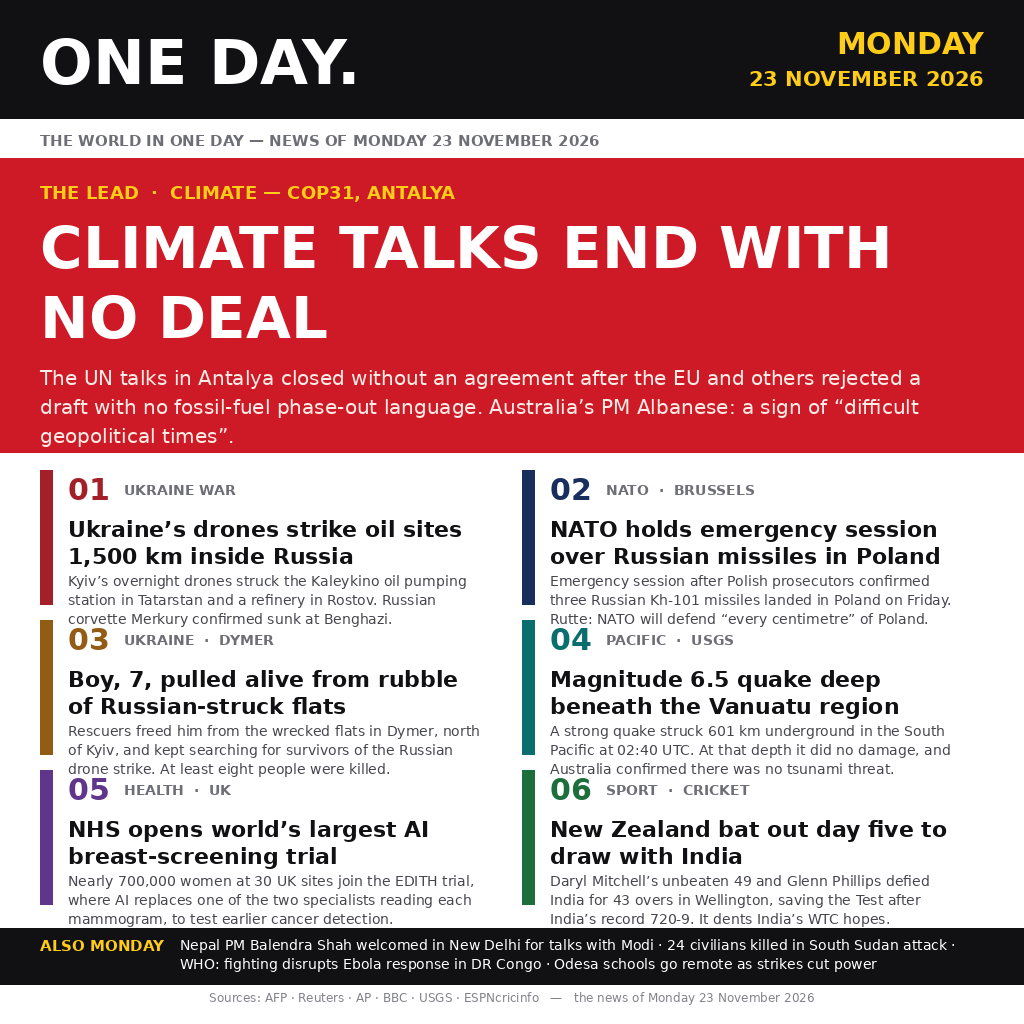
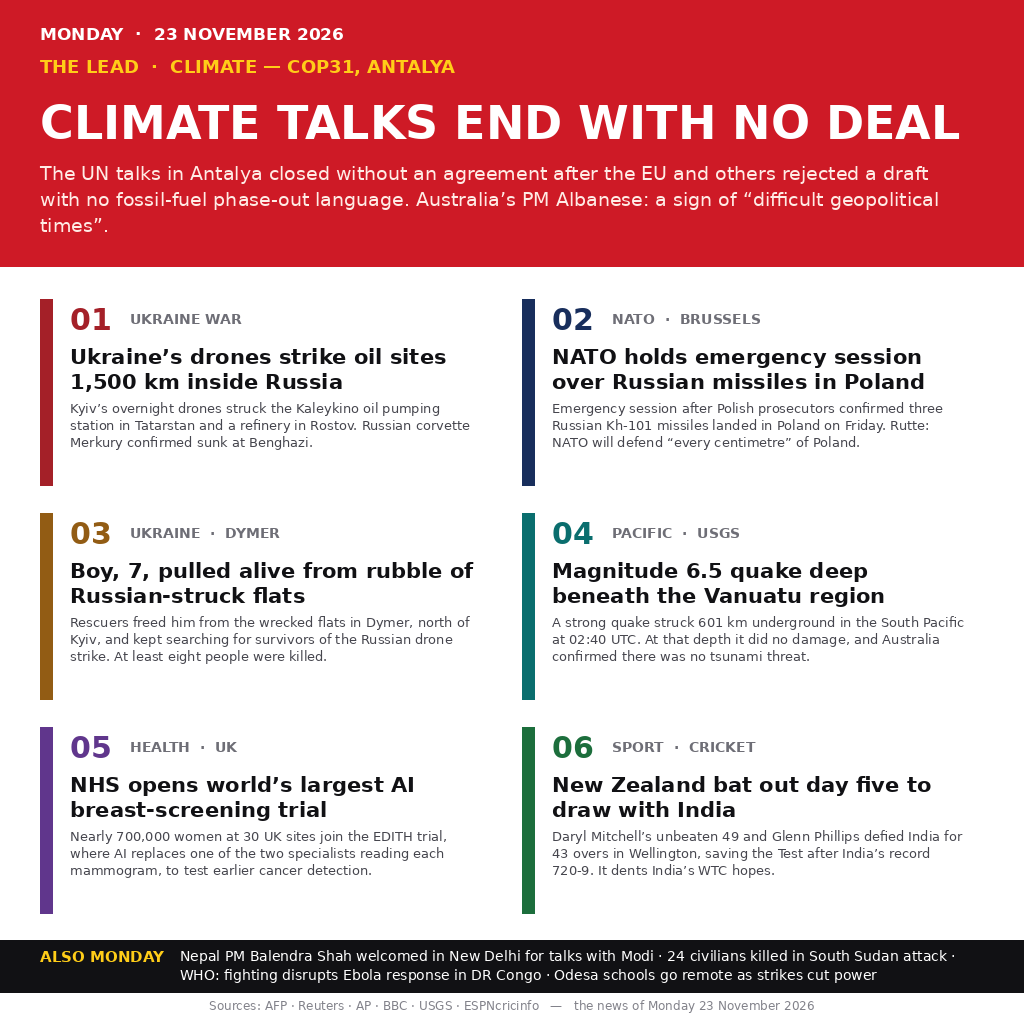
Final design: variant B5 — no masthead, lead block ~28 percent, roomier stories (owner's pick after design review)

diff --git a/make_image.py b/make_image.py
@@ -191,38 +191,49 @@ def render_b():
     img = Image.new("RGB", (W, H), WHITE)
     dr = ImageDraw.Draw(img)
 
-    dr.rectangle([0, 0, W, 118], fill=BLACK)
-    dr.text((40, 26), "ONE DAY.", font=F(SANS_B, 62), fill=WHITE)
-    f_d1, f_d2 = F(SANS_B, 30), F(SANS_B, 21)
-    for txt, fnt, yy in (("MONDAY", f_d1, 26), ("23 NOVEMBER 2026", f_d2, 66)):
-        dr.text((W - 40 - dr.textlength(txt, font=fnt), yy), txt, font=fnt, fill=YELLOW)
-    dr.text((40, 132), "THE WORLD IN ONE DAY — NEWS OF MONDAY 23 NOVEMBER 2026",
-            font=F(SANS_B, 15), fill=(110, 110, 118))
+    # No masthead band: the red lead block starts at the very top of the
+    # page, with the date as a small line inside it above the kicker.
+    # The block is compact (~26% of the page) and hugs its text: its
+    # height is measured from the wrapped headline/body, so there is no
+    # empty red stretch under the lead body.
+    f_date, f_kick = F(SANS_B, 17), F(SANS_B, 18)
+    f_head, f_body = F(SANS_B, 46), F(SANS, 19)
+    head_text = "CLIMATE TALKS END WITH NO DEAL"
+    body_text = ("The UN talks in Antalya closed without an agreement after the EU and "
+                 "others rejected a draft with no fossil-fuel phase-out language. "
+                 "Australia\u2019s PM Albanese: a sign of \u201cdifficult geopolitical times\u201d.")
+    HEAD_LEAD, BODY_LEAD = 54, 26
+    y_date, y_kick, y_head = 24, 56, 96
+    y_body = y_head + len(wrap(dr, head_text, f_head, 944)) * HEAD_LEAD + 12
+    lead_bottom = y_body + len(wrap(dr, body_text, f_body, 930)) * BODY_LEAD + 26
 
-    dr.rectangle([0, 158, W, 452], fill=RED)
-    dr.text((40, 182), "THE LEAD  ·  CLIMATE — COP31, ANTALYA", font=F(SANS_B, 18), fill=YELLOW)
-    y = block(dr, 40, 214, "CLIMATE TALKS END WITH NO DEAL", F(SANS_B, 58), WHITE, 944, 70)
-    block(dr, 40, y + 12,
-          "The UN talks in Antalya closed without an agreement after the EU and "
-          "others rejected a draft with no fossil-fuel phase-out language. "
-          "Australia\u2019s PM Albanese: a sign of \u201cdifficult geopolitical times\u201d.",
-          F(SANS, 20), (255, 236, 230), 930, 29)
+    dr.rectangle([0, 0, W, lead_bottom], fill=RED)
+    dr.text((40, y_date), "MONDAY  ·  23 NOVEMBER 2026", font=f_date, fill=WHITE)
+    dr.text((40, y_kick), "THE LEAD  ·  CLIMATE — COP31, ANTALYA", font=f_kick, fill=YELLOW)
+    block(dr, 40, y_head, head_text, f_head, WHITE, 944, HEAD_LEAD)
+    block(dr, 40, y_body, body_text, f_body, (255, 236, 230), 930, BODY_LEAD)
 
-    GX, GY, GW, GH, GAP = 40, 470, 462, 134, 20
+    # Story grid takes the freed room: rows taller than B2 (same internal
+    # spacing), grid centred in the space down to the ticker so no large
+    # empty area remains anywhere.
+    TY = 940
+    GX, GW, GAP = 40, 462, 20
+    ROW_GAP = 18
+    GH = min(196, (TY - 16 - (lead_bottom + 22) - 2 * ROW_GAP) // 3)
+    leftover = (TY - 16) - (lead_bottom + 22) - (3 * GH + 2 * ROW_GAP)
+    GY = lead_bottom + 22 + leftover // 2
     for i, (kick, col, _ic, head, body) in enumerate(STORIES):
-        cx, cy = GX + (i % 2) * (GW + GAP), GY + (i // 2) * (GH + 16)
-        dr.rectangle([cx, cy, cx + 12, cy + GH], fill=col)
-        dr.text((cx + 28, cy + 2), f"{i + 1:02d}", font=F(SANS_B, 30), fill=col)
-        dr.text((cx + 84, cy + 12), kick, font=F(SANS_B, 14), fill=(110, 110, 118))
-        yy = block(dr, cx + 28, cy + 46, head, F(SANS_B, 22), BLACK, GW - 44, 27)
-        block(dr, cx + 28, yy + 3, body, F(SANS, 14), (70, 70, 78), GW - 44, 19)
-
-    TY = 928
-    dr.rectangle([0, TY, W, 984], fill=BLACK)
-    dr.text((40, TY + 9), "ALSO MONDAY", font=F(SANS_B, 15), fill=YELLOW)
+        cx, cy = GX + (i % 2) * (GW + GAP), GY + (i // 2) * (GH + ROW_GAP)
+        dr.rectangle([cx, cy + 5, cx + 12, cy + GH - 5], fill=col)
+        dr.text((cx + 30, cy + 8), f"{i + 1:02d}", font=F(SANS_B, 30), fill=col)
+        dr.text((cx + 90, cy + 17), kick, font=F(SANS_B, 14), fill=(110, 110, 118))
+        yy = block(dr, cx + 30, cy + 50, head, F(SANS_B, 21), BLACK, GW - 46, 25)
+        block(dr, cx + 30, yy + 6, body, F(SANS, 13), (70, 70, 78), GW - 46, 17)
+    dr.rectangle([0, TY, W, 992], fill=BLACK)
+    dr.text((40, TY + 8), "ALSO MONDAY", font=F(SANS_B, 15), fill=YELLOW)
     tx = 40 + dr.textlength("ALSO MONDAY", font=F(SANS_B, 15)) + 16
-    block(dr, tx, TY + 9, TICKER, F(SANS, 14), WHITE, W - tx - 36, 19)
-    centered(dr, 990, FOOTER, F(SANS, 12), (130, 130, 138))
+    block(dr, tx, TY + 8, TICKER, F(SANS, 14), WHITE, W - tx - 36, 19)
+    centered(dr, 998, FOOTER, F(SANS, 12), (130, 130, 138))
     return img
 
 
